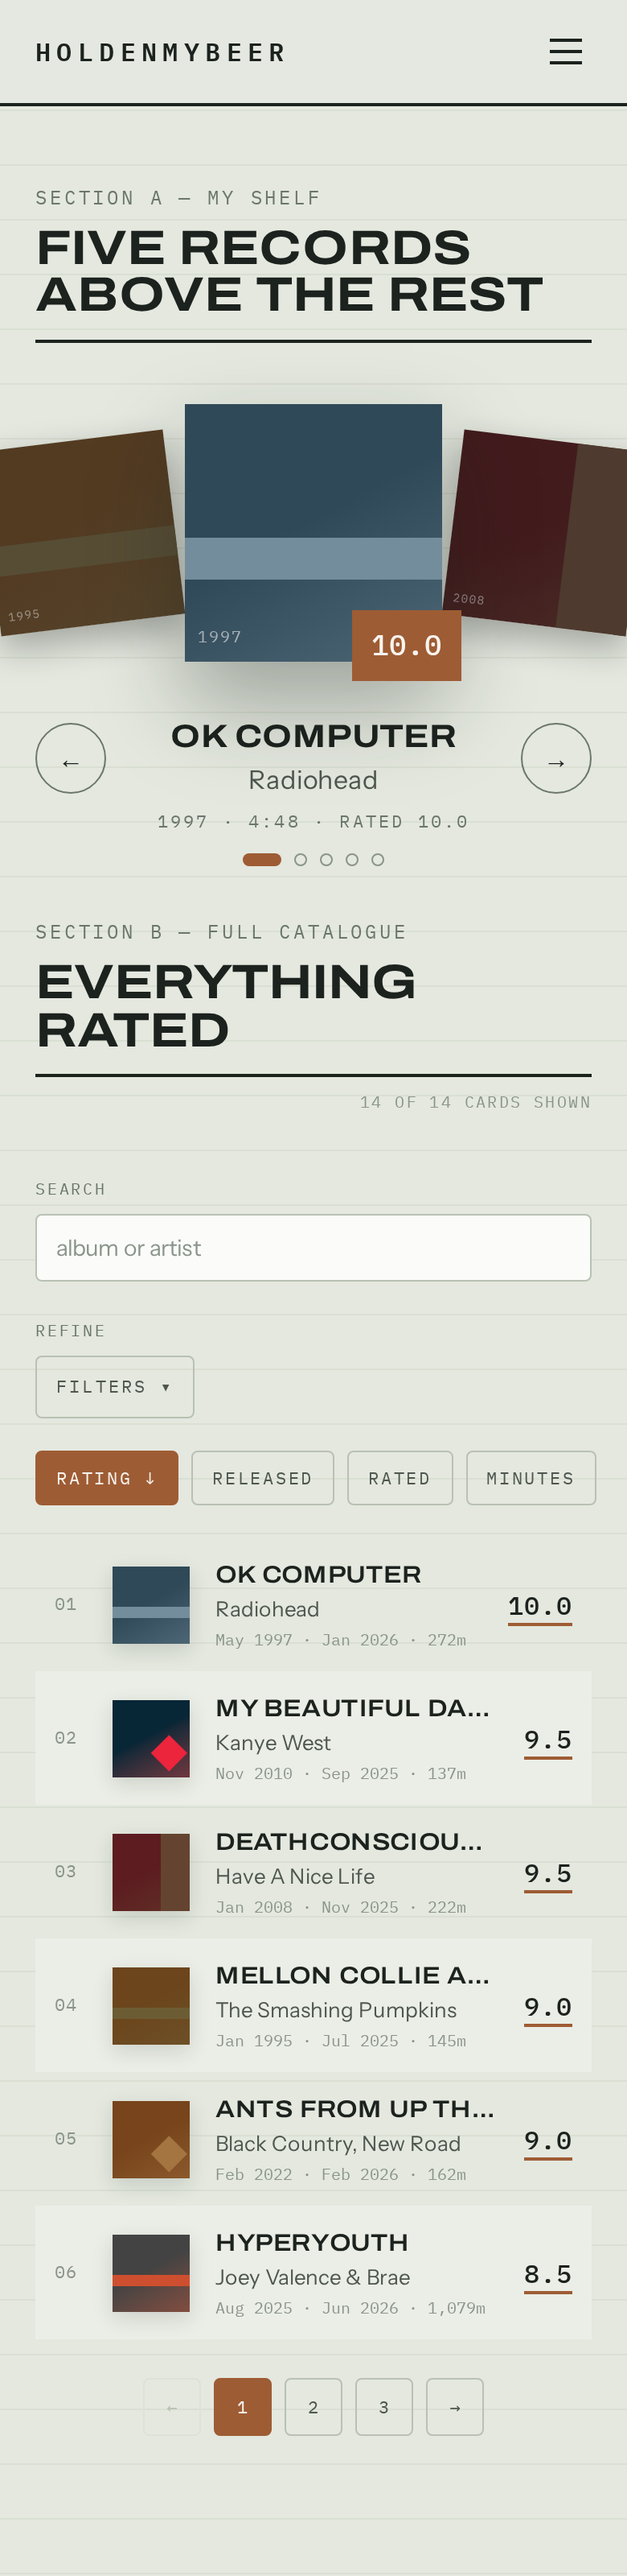
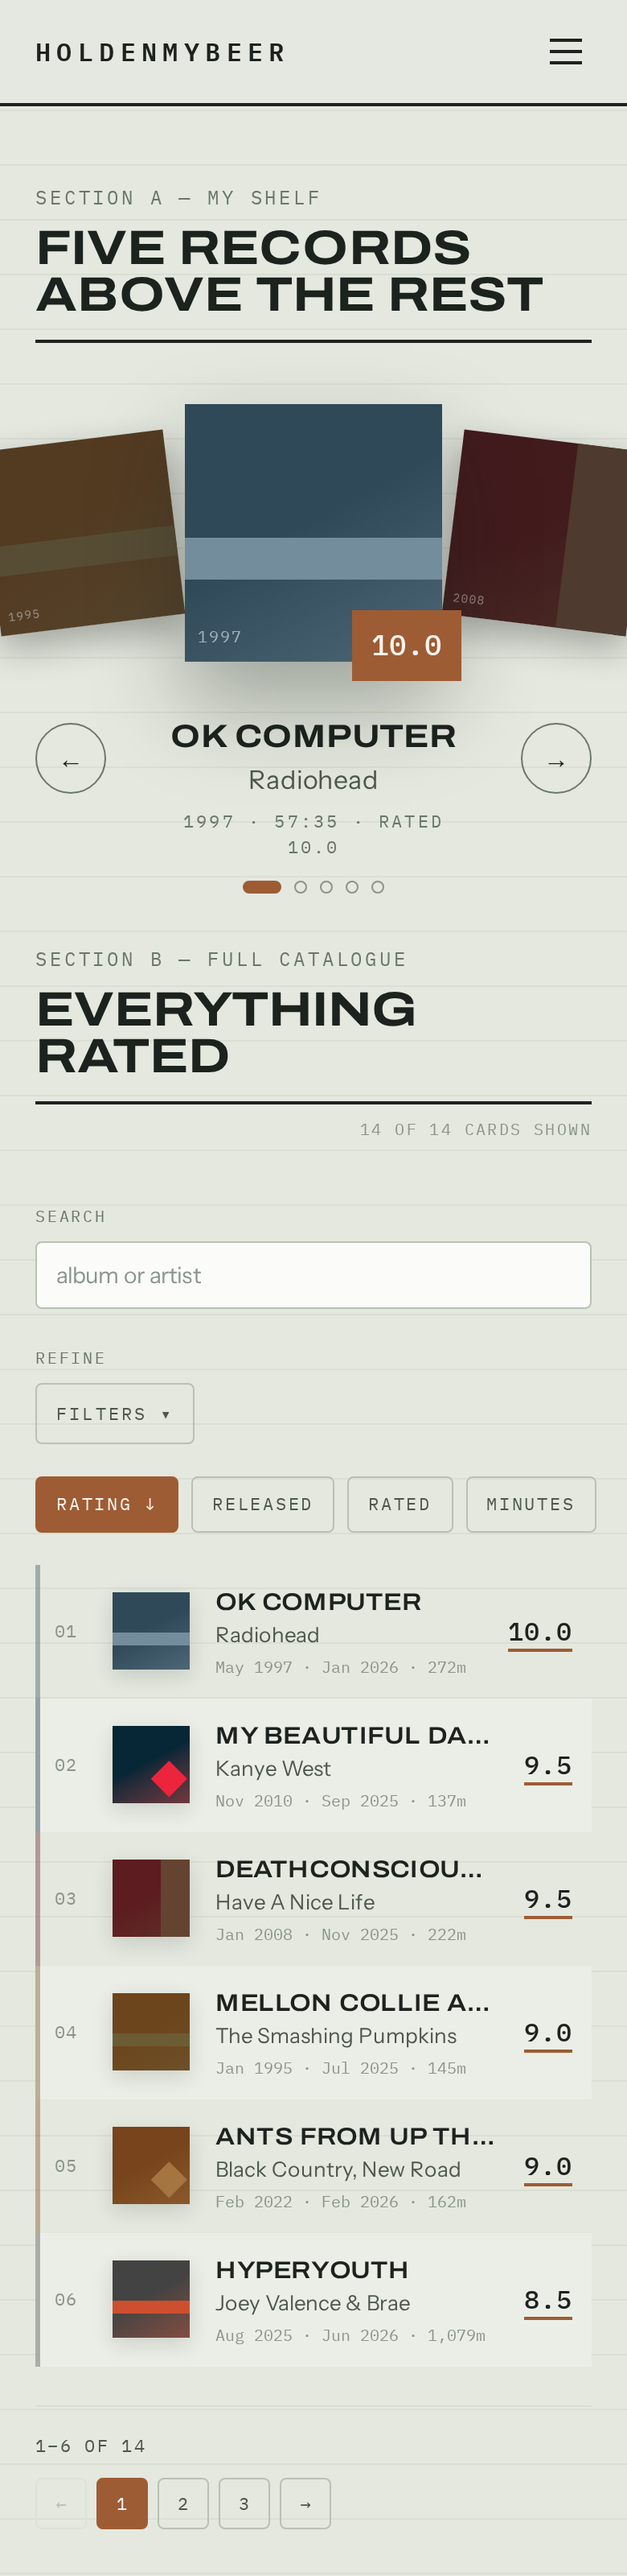
frontend finish ups on stats and ranker pages

diff --git a/web/src/routes/music/+page.svelte b/web/src/routes/music/+page.svelte
@@ -7,13 +7,13 @@
 	import AlbumDetail from '$lib/design/AlbumDetail.svelte';
 	import Sleeve from '$lib/design/Sleeve.svelte';
 	import RangeSlider from '$lib/design/RangeSlider.svelte';
-	import { rate, fmt, dateShort } from '$lib/design/tokens';
+	import { rate, fmt, dateShort, accents } from '$lib/design/tokens';
 	import type { PageProps } from './$types';
 
 	let { data }: PageProps = $props();
 
-	const PER_PAGE_DESKTOP = 8;
-	const PER_PAGE_MOBILE = 6;
+	const PER_PAGE_OPTIONS = [8, 16, 24, 48];
+	let perPageChoice = $state<number>(8);
 
 	let innerWidth = $state(1280);
 	const mobile = $derived(innerWidth < 780);
@@ -83,13 +83,15 @@
 		return out;
 	});
 
-	const perPage = $derived(mobile ? PER_PAGE_MOBILE : PER_PAGE_DESKTOP);
+	const perPage = $derived(mobile ? 6 : perPageChoice);
 	const pageCount = $derived(Math.max(1, Math.ceil(filtered.length / perPage)));
 	const pageRows = $derived(filtered.slice(pageNum * perPage, pageNum * perPage + perPage));
+	const rangeStart = $derived(filtered.length === 0 ? 0 : pageNum * perPage + 1);
+	const rangeEnd = $derived(Math.min(filtered.length, (pageNum + 1) * perPage));
 
 	// reset to page 1 on any query change
 	$effect(() => {
-		void [search, sortKey, sortDir, relLo, relHi, ratLo, ratHi, scoreLo, scoreHi];
+		void [search, sortKey, sortDir, relLo, relHi, ratLo, ratHi, scoreLo, scoreHi, perPageChoice];
 		pageNum = 0;
 	});
 
@@ -275,10 +277,12 @@
 
 				<ul>
 					{#each pageRows as a, i (a.id)}
+						{@const tint = accents(a)[0]}
 						<li class="odd:bg-transparent even:bg-zebra">
 							<button
 								onclick={() => open(a.id)}
 								class="grid w-full {rowGrid} items-center gap-4 py-3 pr-3 text-left transition-colors duration-150 hover:bg-rowhover focus-visible:outline-2 focus-visible:-outline-offset-2 focus-visible:outline-copper"
+								style="box-shadow: inset 3px 0 0 color-mix(in srgb, {tint} 38%, transparent)"
 							>
 								<span class="pl-3 font-mono text-[11px] text-ink-faintest">
 									{String(pageNum * perPage + i + 1).padStart(data.albums.length > 99 ? 3 : 2, '0')}
@@ -318,33 +322,56 @@
 					{/each}
 				</ul>
 
-				{#if pageCount > 1}
-					<div class="mt-6 flex items-center justify-center gap-2 font-mono text-[11px]">
-						<button
-							onclick={() => (pageNum = Math.max(0, pageNum - 1))}
-							disabled={pageNum === 0}
-							class="grid size-9 place-items-center rounded-sm border border-border-strong text-ink-muted disabled:border-border-disabled disabled:text-border-strong"
-							aria-label="Previous page">←</button
-						>
-						{#each Array(pageCount) as _, p (p)}
-							<button
-								onclick={() => (pageNum = p)}
-								aria-current={p === pageNum ? 'page' : undefined}
-								class="grid size-9 place-items-center rounded-sm border {p === pageNum
-									? 'border-copper bg-copper text-copper-text'
-									: 'border-border-strong text-ink-muted hover:border-copper'}"
-							>
-								{p + 1}
-							</button>
-						{/each}
-						<button
-							onclick={() => (pageNum = Math.min(pageCount - 1, pageNum + 1))}
-							disabled={pageNum === pageCount - 1}
-							class="grid size-9 place-items-center rounded-sm border border-border-strong text-ink-muted disabled:border-border-disabled disabled:text-border-strong"
-							aria-label="Next page">→</button
-						>
+				<div
+					class="mt-6 flex flex-col gap-3 border-t border-rule pt-4 font-mono text-[11px] text-ink-muted sm:flex-row sm:items-center sm:justify-between"
+				>
+					<div class="flex items-center gap-4">
+						<span class="tracking-[0.06em] u-caps">
+							{rangeStart}–{rangeEnd} of {filtered.length}
+						</span>
+						{#if !mobile}
+							<label class="flex items-center gap-1.5">
+								<span class="text-[10px] tracking-[0.12em] text-ink-faint u-caps">Per page</span>
+								<select
+									bind:value={perPageChoice}
+									class="rounded-sm border border-border-strong bg-field px-2 py-1 text-[11px] focus-visible:border-copper focus-visible:outline-2 focus-visible:outline-offset-1 focus-visible:outline-copper"
+								>
+									{#each PER_PAGE_OPTIONS as n (n)}
+										<option value={n}>{n}</option>
+									{/each}
+								</select>
+							</label>
+						{/if}
 					</div>
-				{/if}
+
+					{#if pageCount > 1}
+						<div class="flex items-center gap-1.5">
+							<button
+								onclick={() => (pageNum = Math.max(0, pageNum - 1))}
+								disabled={pageNum === 0}
+								class="grid size-8 place-items-center rounded-sm border border-border-strong hover:border-copper disabled:border-border-disabled disabled:text-border-strong disabled:hover:border-border-disabled"
+								aria-label="Previous page">←</button
+							>
+							{#each Array(pageCount) as _, p (p)}
+								<button
+									onclick={() => (pageNum = p)}
+									aria-current={p === pageNum ? 'page' : undefined}
+									class="grid size-8 place-items-center rounded-sm border {p === pageNum
+										? 'border-copper bg-copper text-copper-text'
+										: 'border-border-strong hover:border-copper'}"
+								>
+									{p + 1}
+								</button>
+							{/each}
+							<button
+								onclick={() => (pageNum = Math.min(pageCount - 1, pageNum + 1))}
+								disabled={pageNum === pageCount - 1}
+								class="grid size-8 place-items-center rounded-sm border border-border-strong hover:border-copper disabled:border-border-disabled disabled:text-border-strong disabled:hover:border-border-disabled"
+								aria-label="Next page">→</button
+							>
+						</div>
+					{/if}
+				</div>
 			</div>
 		{/if}
 	</div>

diff --git a/web/src/lib/design/RankBoard.svelte b/web/src/lib/design/RankBoard.svelte
@@ -41,12 +41,12 @@
 </script>
 
 {#snippet rowInner(it: RankItem, i: number)}
-	<span class="font-mono text-[11px] text-ink-faintest">{String(i + 1).padStart(2, '0')}</span>
+	<span class="font-mono text-[12px] text-ink-faintest">{String(i + 1).padStart(2, '0')}</span>
 	<span class="flex justify-center">
 		{#if visual === 'monogram'}
-			<Monogram name={it.primary} src={it.image_url} size={32} />
+			<Monogram name={it.primary} src={it.image_url} size={38} />
 		{:else}
-			<span class="h-8 w-8 overflow-hidden rounded-[2px] shadow-[0_2px_8px_rgba(24,32,26,.14)]">
+			<span class="h-10 w-10 overflow-hidden rounded-[2px] shadow-[0_2px_8px_rgba(24,32,26,.14)]">
 				{#if it.cover_url}
 					<img src={it.cover_url} alt="" class="h-full w-full object-cover" loading="lazy" />
 				{:else}
@@ -58,24 +58,24 @@
 		{/if}
 	</span>
 	<span class="min-w-0">
-		<span class="block truncate text-[14px] text-ink">{it.primary}</span>
+		<span class="block truncate text-[15px] text-ink">{it.primary}</span>
 		{#if it.secondary}
-			<span class="block truncate font-mono text-[11px] text-ink-faint">{it.secondary}</span>
+			<span class="block truncate font-mono text-[12px] text-ink-faint">{it.secondary}</span>
 		{/if}
 	</span>
 	<span class="flex items-center gap-3">
 		{#if showBar}
-			<span class="hidden h-[6px] w-24 overflow-hidden rounded-full bg-border-disabled sm:block">
+			<span class="hidden h-[7px] w-24 overflow-hidden rounded-full bg-border-disabled sm:block">
 				<span
 					class="block h-full rounded-full bg-copper"
 					style="width:{Math.max(4, (it.value / max) * 100)}%"
 				></span>
 			</span>
 		{/if}
-		<span class="flex w-12 flex-col items-end leading-none">
-			<span class="font-mono text-[17px] font-medium text-ink">{fmt(it.value)}</span>
+		<span class="flex w-14 flex-col items-end leading-none">
+			<span class="font-mono text-[20px] font-medium text-ink">{fmt(it.value)}</span>
 			{#if valueSuffix}
-				<span class="mt-0.5 font-mono text-[8px] tracking-[0.1em] text-ink-faintest u-caps"
+				<span class="mt-1 font-mono text-[9px] tracking-[0.1em] text-ink-faintest u-caps"
 					>{valueSuffix}</span
 				>
 			{/if}
@@ -99,20 +99,20 @@
 	{#if items.length === 0}
 		<p class="px-5 py-10 text-center text-[13px] text-ink-muted">{emptyNote}</p>
 	{:else}
-		<div class="noscroll relative max-h-[420px] flex-1 overflow-y-auto">
+		<div class="noscroll relative max-h-[460px] flex-1 overflow-y-auto">
 			<ul>
 				{#each items as it, i (it.key)}
 					<li>
 						{#if onselect}
 							<button
 								onclick={() => onselect(it)}
-								class="grid w-full grid-cols-[1.75rem_2.25rem_1fr_auto] items-center gap-3 px-5 py-2.5 text-left transition-colors hover:bg-rowhover focus-visible:outline-2 focus-visible:-outline-offset-2 focus-visible:outline-copper"
+								class="grid w-full grid-cols-[1.75rem_2.75rem_1fr_auto] items-center gap-3.5 px-5 py-3.5 text-left transition-colors hover:bg-rowhover focus-visible:outline-2 focus-visible:-outline-offset-2 focus-visible:outline-copper"
 							>
 								{@render rowInner(it, i)}
 							</button>
 						{:else}
 							<div
-								class="grid w-full grid-cols-[1.75rem_2.25rem_1fr_auto] items-center gap-3 px-5 py-2.5"
+								class="grid w-full grid-cols-[1.75rem_2.75rem_1fr_auto] items-center gap-3.5 px-5 py-3.5"
 							>
 								{@render rowInner(it, i)}
 							</div>

diff --git a/web/src/lib/design/ArtistDetail.svelte b/web/src/lib/design/ArtistDetail.svelte
@@ -2,7 +2,7 @@
 	import Monogram from './Monogram.svelte';
 	import Sleeve from './Sleeve.svelte';
 	import BarChart from './BarChart.svelte';
-	import YearChips from './YearChips.svelte';
+	import YearPills from './YearPills.svelte';
 	import { rate, fmt, dateLong, noOrphan } from './tokens';
 	import type { ArtistDetail } from '../../routes/music/stats/artist/[id]/+server';
 
@@ -115,7 +115,7 @@
 
 				<div class="mt-7 flex flex-wrap items-center justify-between gap-3">
 					<p class="font-mono text-[10px] tracking-[0.14em] text-white/40 u-caps">Minutes by month</p>
-					<YearChips {years} selected={chartYear} onselect={(y) => (chartYear = y)} label="" />
+					<YearPills {years} selected={chartYear} onselect={(y) => (chartYear = y)} />
 				</div>
 				<div class="mt-2 flex gap-4 font-mono text-[9px] tracking-[0.1em] text-white/45 u-caps">
 					<span class="flex items-center gap-1.5"
@@ -176,7 +176,7 @@
 
 				<p class="mt-7 font-mono text-[10px] tracking-[0.14em] text-white/40 u-caps">Minutes by year</p>
 				<div class="mt-2">
-					<BarChart data={byYearBars} selected={chartYear} height={110} />
+					<BarChart data={byYearBars} selected={chartYear} onselect={(y) => (chartYear = y)} height={110} />
 				</div>
 
 				{#if data.topSongs.length}

diff --git a/web/src/lib/design/YearPills.svelte b/web/src/lib/design/YearPills.svelte
@@ -1,0 +1,25 @@
+<script lang="ts">
+	// Individual outlined pills — the dark-panel variant used in the detail
+	// modals (matches the hi-fi artist popup). Distinct from YearChips, which
+	// is the connected segmented control on the light Stats page.
+	let {
+		years,
+		selected,
+		onselect
+	}: { years: number[]; selected: number; onselect: (y: number) => void } = $props();
+</script>
+
+<div class="flex flex-wrap gap-1.5">
+	{#each years as y (y)}
+		<button
+			onclick={() => onselect(y)}
+			aria-pressed={y === selected}
+			class="rounded-[2px] border px-2.5 py-1 font-mono text-[11px] tracking-[0.04em] transition-colors {y ===
+			selected
+				? 'border-copper-light bg-copper-light/12 text-copper-light'
+				: 'border-white/20 text-white/45 hover:border-white/40 hover:text-white/70'}"
+		>
+			{y}
+		</button>
+	{/each}
+</div>

diff --git a/docs/BP5-stats-page.md b/docs/BP5-stats-page.md
@@ -68,6 +68,25 @@ blank — per the handoff.
 - Artist modal's "Minutes in <year>" tile now follows the **in-modal year
   picker**, not the page year.
 
+## Post-review fixes — round 2 (2026-08-28)
+
+- Artist modal's year selector is now its **own component** (`YearPills.svelte`)
+  — individual outlined pills for the dark panel, distinct from the light
+  Stats page's connected `YearChips` segmented control.
+- The **minutes-by-year bar chart** in the artist modal is now a year
+  selector too — clicking a bar sets `chartYear` (same as the pills), so
+  the month chart / "Minutes in <year>" tile follow either control.
+- All `RankBoard` rows got **more vertical space** (`py-3.5`, grid
+  `[1.75rem_2.75rem_1fr_auto]`, `max-h-[460px]`) so every element scales
+  up: monogram/cover 38–40px, name 15px, secondary 12px, value 20px.
+- Catalogue pagination bar rebuilt to match the hi-fi: **left** =
+  `<start>–<end> of <total>` + a **Per page** `<select>` (8 / 16 / 24 /
+  48), **right** = `← <page buttons> →`. Mobile keeps a fixed 6/page and
+  hides the dropdown.
+- Re-added the **faint album-colour left edge** on each catalogue row
+  (`box-shadow: inset 3px 0 0 color-mix(... 38%, transparent)`, colour
+  from `accents(a)[0]` — real palette or per-id placeholder pair).
+
 ## Known follow-ups
 
 - Bar-chart top clearance and heatmap weekday labels are slightly tight —
